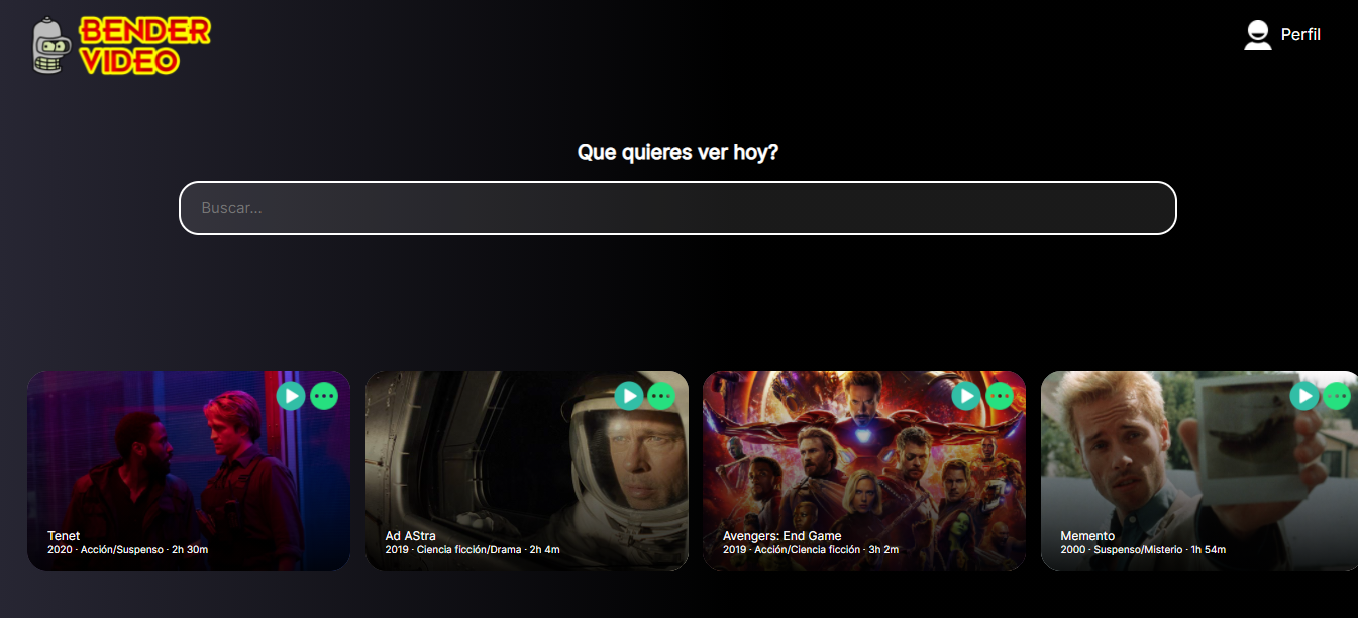
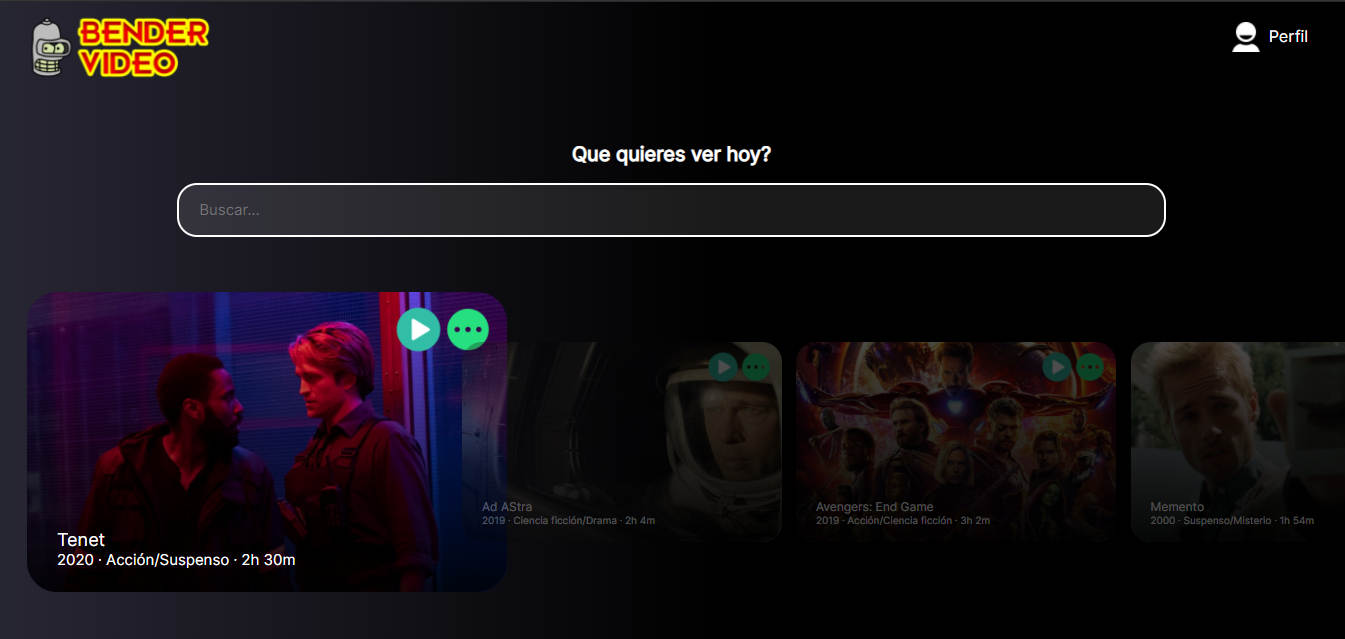
Cambios al input

diff --git a/index.html b/index.html
@@ -76,7 +76,7 @@
     .search {
         margin-top: 60px;
         margin-bottom: 0px;
-        height: 130px;
+        height: 100px;
         text-align: center;
     }
     .search__title {
